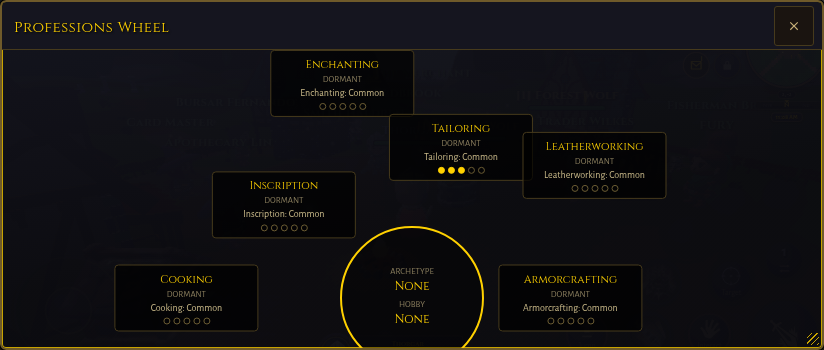
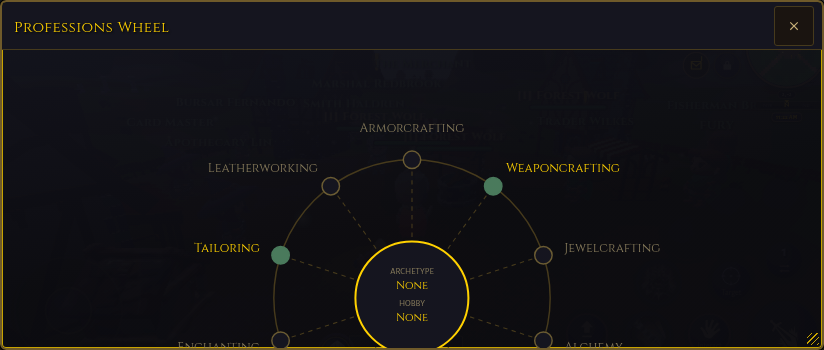
fix(ui): draw the Professions Wheel as an actual wheel (circle + dots + spokes)
Redraws the wheel window as a plain inline SVG matching a real wheel
diagram: a circle rim, one dashed spoke per craft from the center hub to
its dot, and the craft name labeled beside the dot. A dot fills in green
once the player has touched that craft at all (skill > 0), gold for the
active archetype, blue for the hobby, and stays hollow otherwise; the
label text follows the same touched/untouched contrast. Tier detail
(previously shown inline) moves to a hover tooltip on each dot, reusing
the existing PainterHostPresentation seam the crafting window already
uses, so the wheel itself stays a clean diagram rather than ten text
cards.

The svg's viewBox carries its own margin (-16 on every side) so label
text has room inside the SVG's own coordinate space: the window's
overflow-y: auto also clips overflow-x per the CSS spec once only one
axis is non-visible, so relying on the parent to let labels bleed past
the nominal circle was clipping them at the window edge.

diff --git a/src/ui/professions_wheel_window.ts b/src/ui/professions_wheel_window.ts
@@ -5,14 +5,25 @@
 // (professions_wheel_view.ts). It owns no state and no cross-window
 // orchestration; Hud calls this on open and on any craftSkills/archetype
 // change, same as renderCraftingWindow.
+//
+// Drawn as a literal wheel (an SVG circle, dashed spokes, and one dot per
+// craft), not a card grid: a plain circle in a 0-100 viewBox so the whole
+// wheel scales with its container for free, dashed spokes from the center
+// hub to each dot, a filled dot for any craft the player has touched
+// (skill > 0) versus a hollow ring for one never touched, and the
+// archetype/hobby dots picked out in their own colors. Labels sit beside
+// each dot, flowing away from the circle (right of dots on the right half,
+// left of dots on the left half, centered above/below at the top/bottom
+// poles) so text never crosses the rim.
 
 import type { MaterialRarity } from '../sim/professions/gathering';
 import { esc } from './esc';
 import { formatNumber, type TranslationKey, t } from './i18n';
+import type { PainterHostPresentation } from './painter_host';
 import type { ProfessionsWheelView, WheelCraftVM } from './professions_wheel_view';
 import { svgIcon } from './ui_icons';
 
-export interface ProfessionsWheelWindowDeps {
+export interface ProfessionsWheelWindowDeps extends PainterHostPresentation {
   onClose(): void;
 }
 
@@ -31,6 +42,11 @@ const WHEEL_CRAFT_NAME_KEYS: Record<string, TranslationKey> = {
   leatherworking: 'hudChrome.wheel.leatherworking',
 };
 
+function craftName(craftId: string | null): string {
+  if (craftId === null) return t('hudChrome.archetypeTitle.none');
+  return t(WHEEL_CRAFT_NAME_KEYS[craftId] ?? 'hudChrome.wheel.title');
+}
+
 const WHEEL_TIER_NAME_KEYS: Record<MaterialRarity, TranslationKey> = {
   common: 'itemUi.quality.common',
   uncommon: 'itemUi.quality.uncommon',
@@ -39,25 +55,36 @@ const WHEEL_TIER_NAME_KEYS: Record<MaterialRarity, TranslationKey> = {
   legendary: 'itemUi.quality.legendary',
 };
 
-function craftStateClass(craft: WheelCraftVM): string {
-  if (craft.state === 'archetype') return 'wheel-craft-archetype';
-  if (craft.state === 'hobby') return 'wheel-craft-hobby';
-  return 'wheel-craft-dormant';
+const SVG_NS = 'http://www.w3.org/2000/svg';
+const CENTER = 50;
+const RIM_RADIUS = 38;
+const LABEL_RADIUS = 44;
+const DOT_RADIUS = 2.4;
+
+function pointOnCircle(angleDeg: number, radius: number): { x: number; y: number } {
+  const rad = (angleDeg * Math.PI) / 180;
+  return { x: CENTER + radius * Math.sin(rad), y: CENTER - radius * Math.cos(rad) };
 }
 
-function craftStateLabel(craft: WheelCraftVM): string {
-  if (craft.state === 'archetype') return t('hudChrome.wheel.archetypeLabel');
-  if (craft.state === 'hobby') return t('hudChrome.wheel.hobbyLabel');
-  return t('hudChrome.wheel.dormantLabel');
+function svgEl<K extends keyof SVGElementTagNameMap>(
+  tag: K,
+  attrs: Record<string, string | number>,
+): SVGElementTagNameMap[K] {
+  const el = document.createElementNS(SVG_NS, tag);
+  for (const [key, value] of Object.entries(attrs)) el.setAttribute(key, String(value));
+  return el;
 }
 
-function renderPips(craft: WheelCraftVM): string {
-  let pips = '';
-  for (let i = 0; i < craft.pipsTotal; i++) {
-    const filled = i < craft.pipsFilled;
-    pips += `<span class="wheel-pip${filled ? ' wheel-pip-filled' : ''}"></span>`;
-  }
-  return pips;
+function craftDotClass(craft: WheelCraftVM): string {
+  if (craft.state === 'archetype') return 'wheel-dot-archetype';
+  if (craft.state === 'hobby') return 'wheel-dot-hobby';
+  return craft.skill > 0 ? 'wheel-dot-touched' : 'wheel-dot-untouched';
+}
+
+function craftLabelClass(craft: WheelCraftVM): string {
+  return craft.state !== 'dormant' || craft.skill > 0
+    ? 'wheel-label-touched'
+    : 'wheel-label-untouched';
 }
 
 /** Paint the professions wheel panel from a prepared view. */
@@ -82,37 +109,74 @@ export function renderProfessionsWheelWindow(
   const ring = document.createElement('div');
   ring.className = 'wheel-ring';
 
-  // The center hub: a plain circle showing identity at a glance (title/hobby),
-  // the one thing that doesn't belong to any single spoke.
+  // -16 margin on every side: the window's overflow-y: auto clips overflow-x
+  // too (a plain CSS rule once only one axis is non-visible), so the labels'
+  // text glyphs need room INSIDE the svg's own coordinate space rather than
+  // relying on the parent to let them bleed past the nominal 0-100 box.
+  const svg = svgEl('svg', { viewBox: '-16 -16 132 132', class: 'wheel-svg' });
+  svg.appendChild(svgEl('circle', { cx: CENTER, cy: CENTER, r: RIM_RADIUS, class: 'wheel-rim' }));
+
+  for (const craft of view.crafts) {
+    const rim = pointOnCircle(craft.angleDeg, RIM_RADIUS);
+    const spoke = svgEl('line', {
+      x1: CENTER,
+      y1: CENTER,
+      x2: rim.x,
+      y2: rim.y,
+      class: 'wheel-spoke-line',
+    });
+    svg.appendChild(spoke);
+  }
+
+  for (const craft of view.crafts) {
+    const rim = pointOnCircle(craft.angleDeg, RIM_RADIUS);
+    const dot = svgEl('circle', {
+      cx: rim.x,
+      cy: rim.y,
+      r: DOT_RADIUS,
+      class: `wheel-dot ${craftDotClass(craft)}`,
+    });
+    dot.setAttribute('tabindex', '-1');
+    // attachTooltip is typed for HTMLElement (its wiring is addEventListener +
+    // getBoundingClientRect, both plain Element/EventTarget members an SVG
+    // element supports identically at runtime): safe to widen here rather
+    // than duplicate the whole hover/tooltip wiring for one SVG circle.
+    deps.attachTooltip(dot as unknown as HTMLElement, () => {
+      const name = craftName(craft.craftId);
+      const tierName = t(WHEEL_TIER_NAME_KEYS[craft.tierRarity]);
+      return `<div class="tt-title">${esc(name)}</div><div class="tt-sub">${esc(t('hudChrome.wheel.craftTier', { craft: name, tier: tierName }))}</div>`;
+    });
+    svg.appendChild(dot);
+
+    const normalized = ((craft.angleDeg % 360) + 360) % 360;
+    const label = pointOnCircle(craft.angleDeg, LABEL_RADIUS);
+    let anchor = 'middle';
+    let dy = 0;
+    if (normalized === 0) dy = -2.5;
+    else if (normalized === 180) dy = 3.2;
+    else if (normalized < 180) anchor = 'start';
+    else anchor = 'end';
+    const text = svgEl('text', {
+      x: label.x,
+      y: label.y,
+      'text-anchor': anchor,
+      'dominant-baseline': 'middle',
+      dy,
+      class: `wheel-label ${craftLabelClass(craft)}`,
+    });
+    text.textContent = craftName(craft.craftId);
+    svg.appendChild(text);
+  }
+  ring.appendChild(svg);
+
+  // The center hub sits ON TOP of the svg (a plain HTML overlay, easier to
+  // localize/reflow than SVG text): the one summary that doesn't belong to
+  // any single spoke.
   const hub = document.createElement('div');
   hub.className = 'wheel-hub';
-  const archetypeName =
-    view.archetypeCraft !== null
-      ? t(WHEEL_CRAFT_NAME_KEYS[view.archetypeCraft] ?? 'hudChrome.wheel.title')
-      : t('hudChrome.archetypeTitle.none');
-  const hobbyName =
-    view.hobbyCraft !== null
-      ? t(WHEEL_CRAFT_NAME_KEYS[view.hobbyCraft] ?? 'hudChrome.wheel.title')
-      : t('hudChrome.archetypeTitle.none');
-  hub.innerHTML = `<span class="wheel-hub-label">${esc(t('hudChrome.wheel.archetypeLabel'))}</span><span class="wheel-hub-value">${esc(archetypeName)}</span><span class="wheel-hub-label">${esc(t('hudChrome.wheel.hobbyLabel'))}</span><span class="wheel-hub-value">${esc(hobbyName)}</span>`;
+  hub.innerHTML = `<span class="wheel-hub-label">${esc(t('hudChrome.wheel.archetypeLabel'))}</span><span class="wheel-hub-value">${esc(craftName(view.archetypeCraft))}</span><span class="wheel-hub-label">${esc(t('hudChrome.wheel.hobbyLabel'))}</span><span class="wheel-hub-value">${esc(craftName(view.hobbyCraft))}</span>`;
   ring.appendChild(hub);
 
-  view.crafts.forEach((craft, index) => {
-    const spoke = document.createElement('div');
-    // Alternating near/far radius (the classic many-spoke rosette layout):
-    // ten cards spaced 36deg apart are wide enough, relative to that arc,
-    // that neighbors collide near the top and bottom of a single-radius ring.
-    // Staggering every other card outward gives each one room on both sides.
-    spoke.className = `wheel-spoke ${index % 2 === 0 ? 'wheel-spoke-near' : 'wheel-spoke-far'}`;
-    spoke.style.setProperty('--wheel-angle', `${craft.angleDeg}deg`);
-    const cell = document.createElement('div');
-    cell.className = `wheel-craft ${craftStateClass(craft)}`;
-    const name = t(WHEEL_CRAFT_NAME_KEYS[craft.craftId] ?? 'hudChrome.wheel.title');
-    const tierName = t(WHEEL_TIER_NAME_KEYS[craft.tierRarity]);
-    cell.innerHTML = `<span class="wheel-craft-name">${esc(name)}</span><span class="wheel-craft-state">${esc(craftStateLabel(craft))}</span><span class="wheel-craft-tier">${esc(t('hudChrome.wheel.craftTier', { craft: name, tier: tierName }))}</span><span class="wheel-pips">${renderPips(craft)}</span>`;
-    spoke.appendChild(cell);
-    ring.appendChild(spoke);
-  });
   el.appendChild(ring);
 
   el.querySelector('[data-close]')?.addEventListener('click', () => deps.onClose());

diff --git a/src/styles/components.css b/src/styles/components.css
@@ -4432,13 +4432,13 @@
   }
 
   /* ---------- professions wheel (#1302) ---------- */
-  /* An actual wheel: a fixed-size circular container (--wheel-d, clamped to the
-     viewport for mobile), a center hub showing identity at a glance, and ten
-     spokes placed on the circle with the classic rotate/translate/counter-
-     rotate trick (rotate the 0-size spoke anchor to its angle, push it out by
-     the radius, then rotate the card itself back upright so its text stays
-     horizontal). Every length below is a fraction of --wheel-d, so the whole
-     wheel scales as one unit instead of needing per-breakpoint overrides. */
+  /* An actual wheel: a plain circle (the rim), one dashed spoke per craft
+     from the center to its dot on that rim, and the craft name labeled
+     beside the dot. The svg's viewBox is a fixed 0-100 unit square, so every
+     coordinate the painter computes is resolution-independent; the element
+     itself just scales to fill --wheel-d (clamped to the viewport for
+     mobile). The center hub (identity at a glance) is a plain HTML overlay
+     on top, easier to localize/reflow than SVG text. */
   .wheel-amends {
     padding: 5px 2px 8px;
     font-size: 11px;
@@ -4453,16 +4453,62 @@
     height: var(--wheel-d);
     margin: 8px auto 4px;
   }
+  .wheel-svg {
+    width: 100%;
+    height: 100%;
+    display: block;
+    overflow: visible;
+  }
+  .wheel-rim {
+    fill: none;
+    stroke: #463a1c;
+    stroke-width: 0.4;
+  }
+  .wheel-spoke-line {
+    stroke: #463a1c;
+    stroke-width: 0.3;
+    stroke-dasharray: 1.2 1.2;
+  }
+  .wheel-dot {
+    stroke: #6b5c33;
+    stroke-width: 0.4;
+    cursor: default;
+  }
+  .wheel-dot-untouched {
+    fill: var(--panel-base, #1a1610);
+  }
+  .wheel-dot-touched {
+    fill: #4a7a5c;
+    stroke: #4a7a5c;
+  }
+  .wheel-dot-archetype {
+    fill: var(--gold);
+    stroke: var(--gold);
+  }
+  .wheel-dot-hobby {
+    fill: #6c8ebf;
+    stroke: #6c8ebf;
+  }
+  .wheel-label {
+    font-size: 3.4px;
+    font-family: var(--title-font);
+  }
+  .wheel-label-untouched {
+    fill: #887c5c;
+  }
+  .wheel-label-touched {
+    fill: var(--gold);
+  }
   .wheel-hub {
     position: absolute;
     top: 50%;
     left: 50%;
     transform: translate(-50%, -50%);
-    width: calc(var(--wheel-d) * 0.3);
-    height: calc(var(--wheel-d) * 0.3);
+    width: calc(var(--wheel-d) * 0.24);
+    height: calc(var(--wheel-d) * 0.24);
     border-radius: 50%;
     border: 2px solid var(--gold);
-    background: rgba(0, 0, 0, 0.4);
+    background: var(--panel-base, rgba(0, 0, 0, 0.6));
     display: flex;
     flex-direction: column;
     align-items: center;
@@ -4478,82 +4524,9 @@
   }
   .wheel-hub-value {
     font-family: var(--title-font);
-    font-size: 12px;
-    color: var(--gold);
-    margin-bottom: 4px;
-  }
-  .wheel-spoke {
-    position: absolute;
-    top: 50%;
-    left: 50%;
-    width: 0;
-    height: 0;
-  }
-  /* Ten cards at 36deg apart are wide enough, relative to that arc, to collide
-     near the top and bottom of a single-radius ring; alternating every other
-     card onto a slightly larger radius (a rosette layout) gives each one
-     clearance on both sides without shrinking the cards further. */
-  .wheel-spoke-near {
-    transform: rotate(var(--wheel-angle)) translate(calc(var(--wheel-d) * 0.33))
-      rotate(calc(-1 * var(--wheel-angle)));
-  }
-  .wheel-spoke-far {
-    transform: rotate(var(--wheel-angle)) translate(calc(var(--wheel-d) * 0.47))
-      rotate(calc(-1 * var(--wheel-angle)));
-  }
-  .wheel-craft {
-    position: absolute;
-    top: 0;
-    left: 0;
-    transform: translate(-50%, -50%);
-    width: calc(var(--wheel-d) * 0.3);
-    display: flex;
-    flex-direction: column;
-    align-items: center;
-    gap: 2px;
-    padding: 6px;
-    border-radius: 4px;
-    border: 1px solid #463a1c;
-    background: rgba(0, 0, 0, 0.7);
-    text-align: center;
-  }
-  .wheel-craft-archetype {
-    border-color: var(--gold);
-    background: rgba(212, 175, 55, 0.22);
-  }
-  .wheel-craft-hobby {
-    border-color: #6c8ebf;
-  }
-  .wheel-craft-name {
-    font-family: var(--title-font);
     font-size: 11px;
     color: var(--gold);
-  }
-  .wheel-craft-state {
-    font-size: 9px;
-    color: #887c5c;
-    text-transform: uppercase;
-  }
-  .wheel-craft-tier {
-    font-size: 10px;
-    color: #c8b888;
-  }
-  .wheel-pips {
-    display: flex;
-    justify-content: center;
-    gap: 3px;
-    margin-top: 2px;
-  }
-  .wheel-pip {
-    width: 7px;
-    height: 7px;
-    border-radius: 50%;
-    border: 1px solid #6b5c33;
-    background: transparent;
-  }
-  .wheel-pip-filled {
-    background: var(--gold);
-    border-color: var(--gold);
+    margin-bottom: 4px;
   }
 
   /* ---------- bags ---------- */

diff --git a/src/ui/hud.ts b/src/ui/hud.ts
@@ -10045,6 +10045,7 @@ export class Hud {
         amendsRequired: this.sim.archetypeAmendsRequired,
       }),
       {
+        ...this.presentationBag,
         onClose: () => this.closeProfessionsWheel(),
       },
     );
